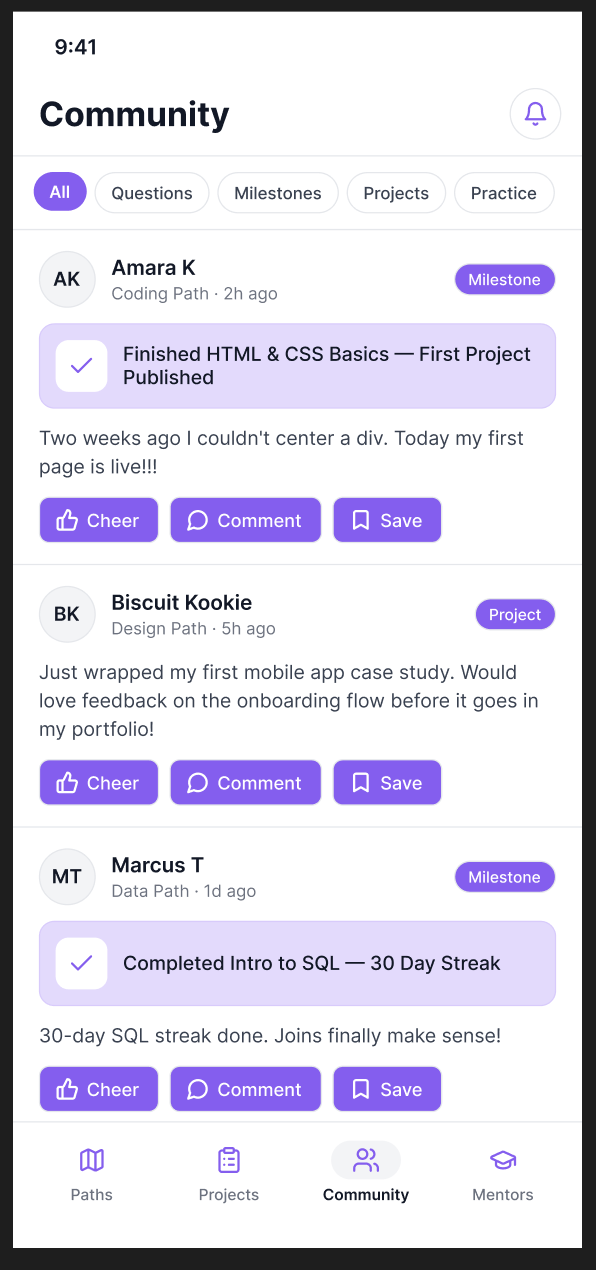
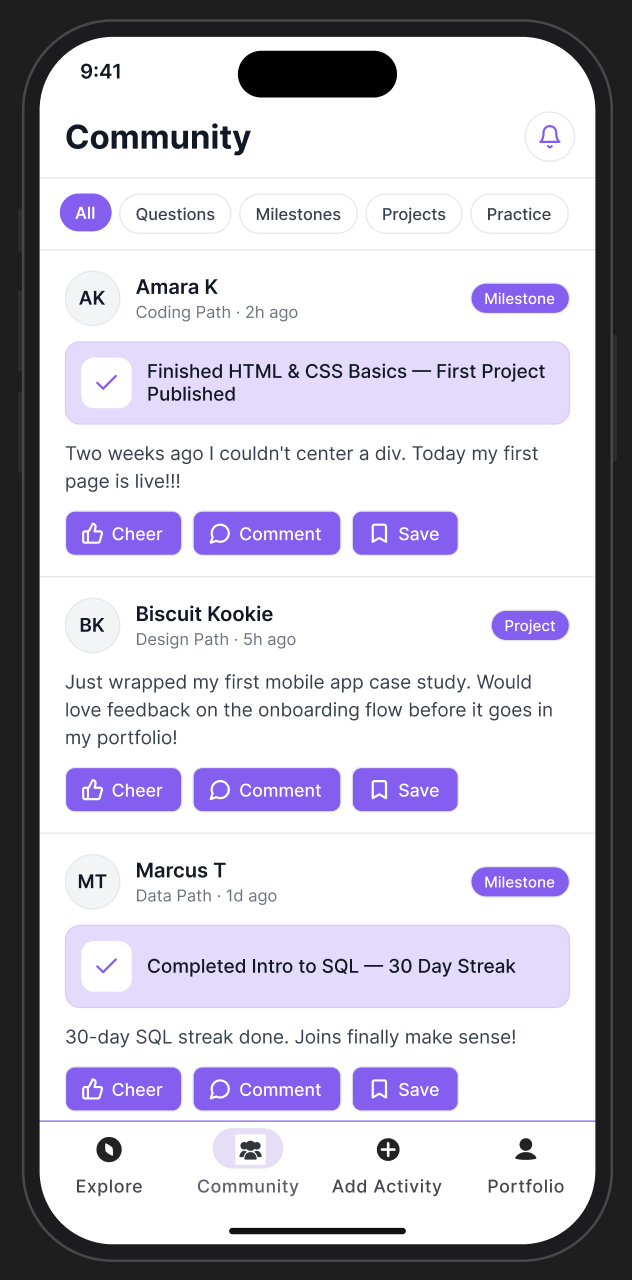
Update Sprint 5 Community mockups with final Figma screens
Replace the four Community PNGs with the device-framed versions that use
the shared Explore / Community / Add Activity / Portfolio bottom nav.

Claude-Session: https://claude.ai/code/session_01DWxEgkiR8rGnMjBLrhw2kB

Changed region(s): [[0.0, 0.0, 0.9966, 1.0], [0.3926, 0.1228, 0.5436, 0.1843], [0.604, 0.1228, 0.7248, 0.1843]]

diff --git a/frontend/src/components/presentation/Sprint5PresentationView.jsx b/frontend/src/components/presentation/Sprint5PresentationView.jsx
@@ -78,7 +78,7 @@ const mockups = [
         file: 'Community_General.png',
         title: 'Community Feed (All) Mockup',
         path: '/documents/sprint5/Mockups/Community_General.png',
-        description: 'High-fidelity community feed with the All filter selected, mixing milestone and project posts from different learning paths (Coding, Design, Data) with highlighted milestone cards, path tags, and Cheer, Comment, and Save actions above a Paths / Projects / Community / Mentors bottom navigation.'
+        description: 'High-fidelity community feed with the All filter selected, mixing milestone and project posts from different learning paths (Coding, Design, Data) with highlighted milestone cards, path tags, and Cheer, Comment, and Save actions above the Explore / Community / Add Activity / Portfolio bottom navigation shared with the other mockups.'
     },
     {
         file: 'Community_Questions.png',

diff --git a/frontend/src/pages/Sprint5.jsx b/frontend/src/pages/Sprint5.jsx
@@ -72,7 +72,7 @@ const mockups = [
         file: 'Community_General.png',
         title: 'Community Feed (All) Mockup',
         path: '/documents/sprint5/Mockups/Community_General.png',
-        description: 'High-fidelity community feed with the All filter selected, mixing milestone and project posts from different learning paths (Coding, Design, Data) with highlighted milestone cards, path tags, and Cheer, Comment, and Save actions above a Paths / Projects / Community / Mentors bottom navigation.'
+        description: 'High-fidelity community feed with the All filter selected, mixing milestone and project posts from different learning paths (Coding, Design, Data) with highlighted milestone cards, path tags, and Cheer, Comment, and Save actions above the Explore / Community / Add Activity / Portfolio bottom navigation shared with the other mockups.'
     },
     {
         file: 'Community_Questions.png',
